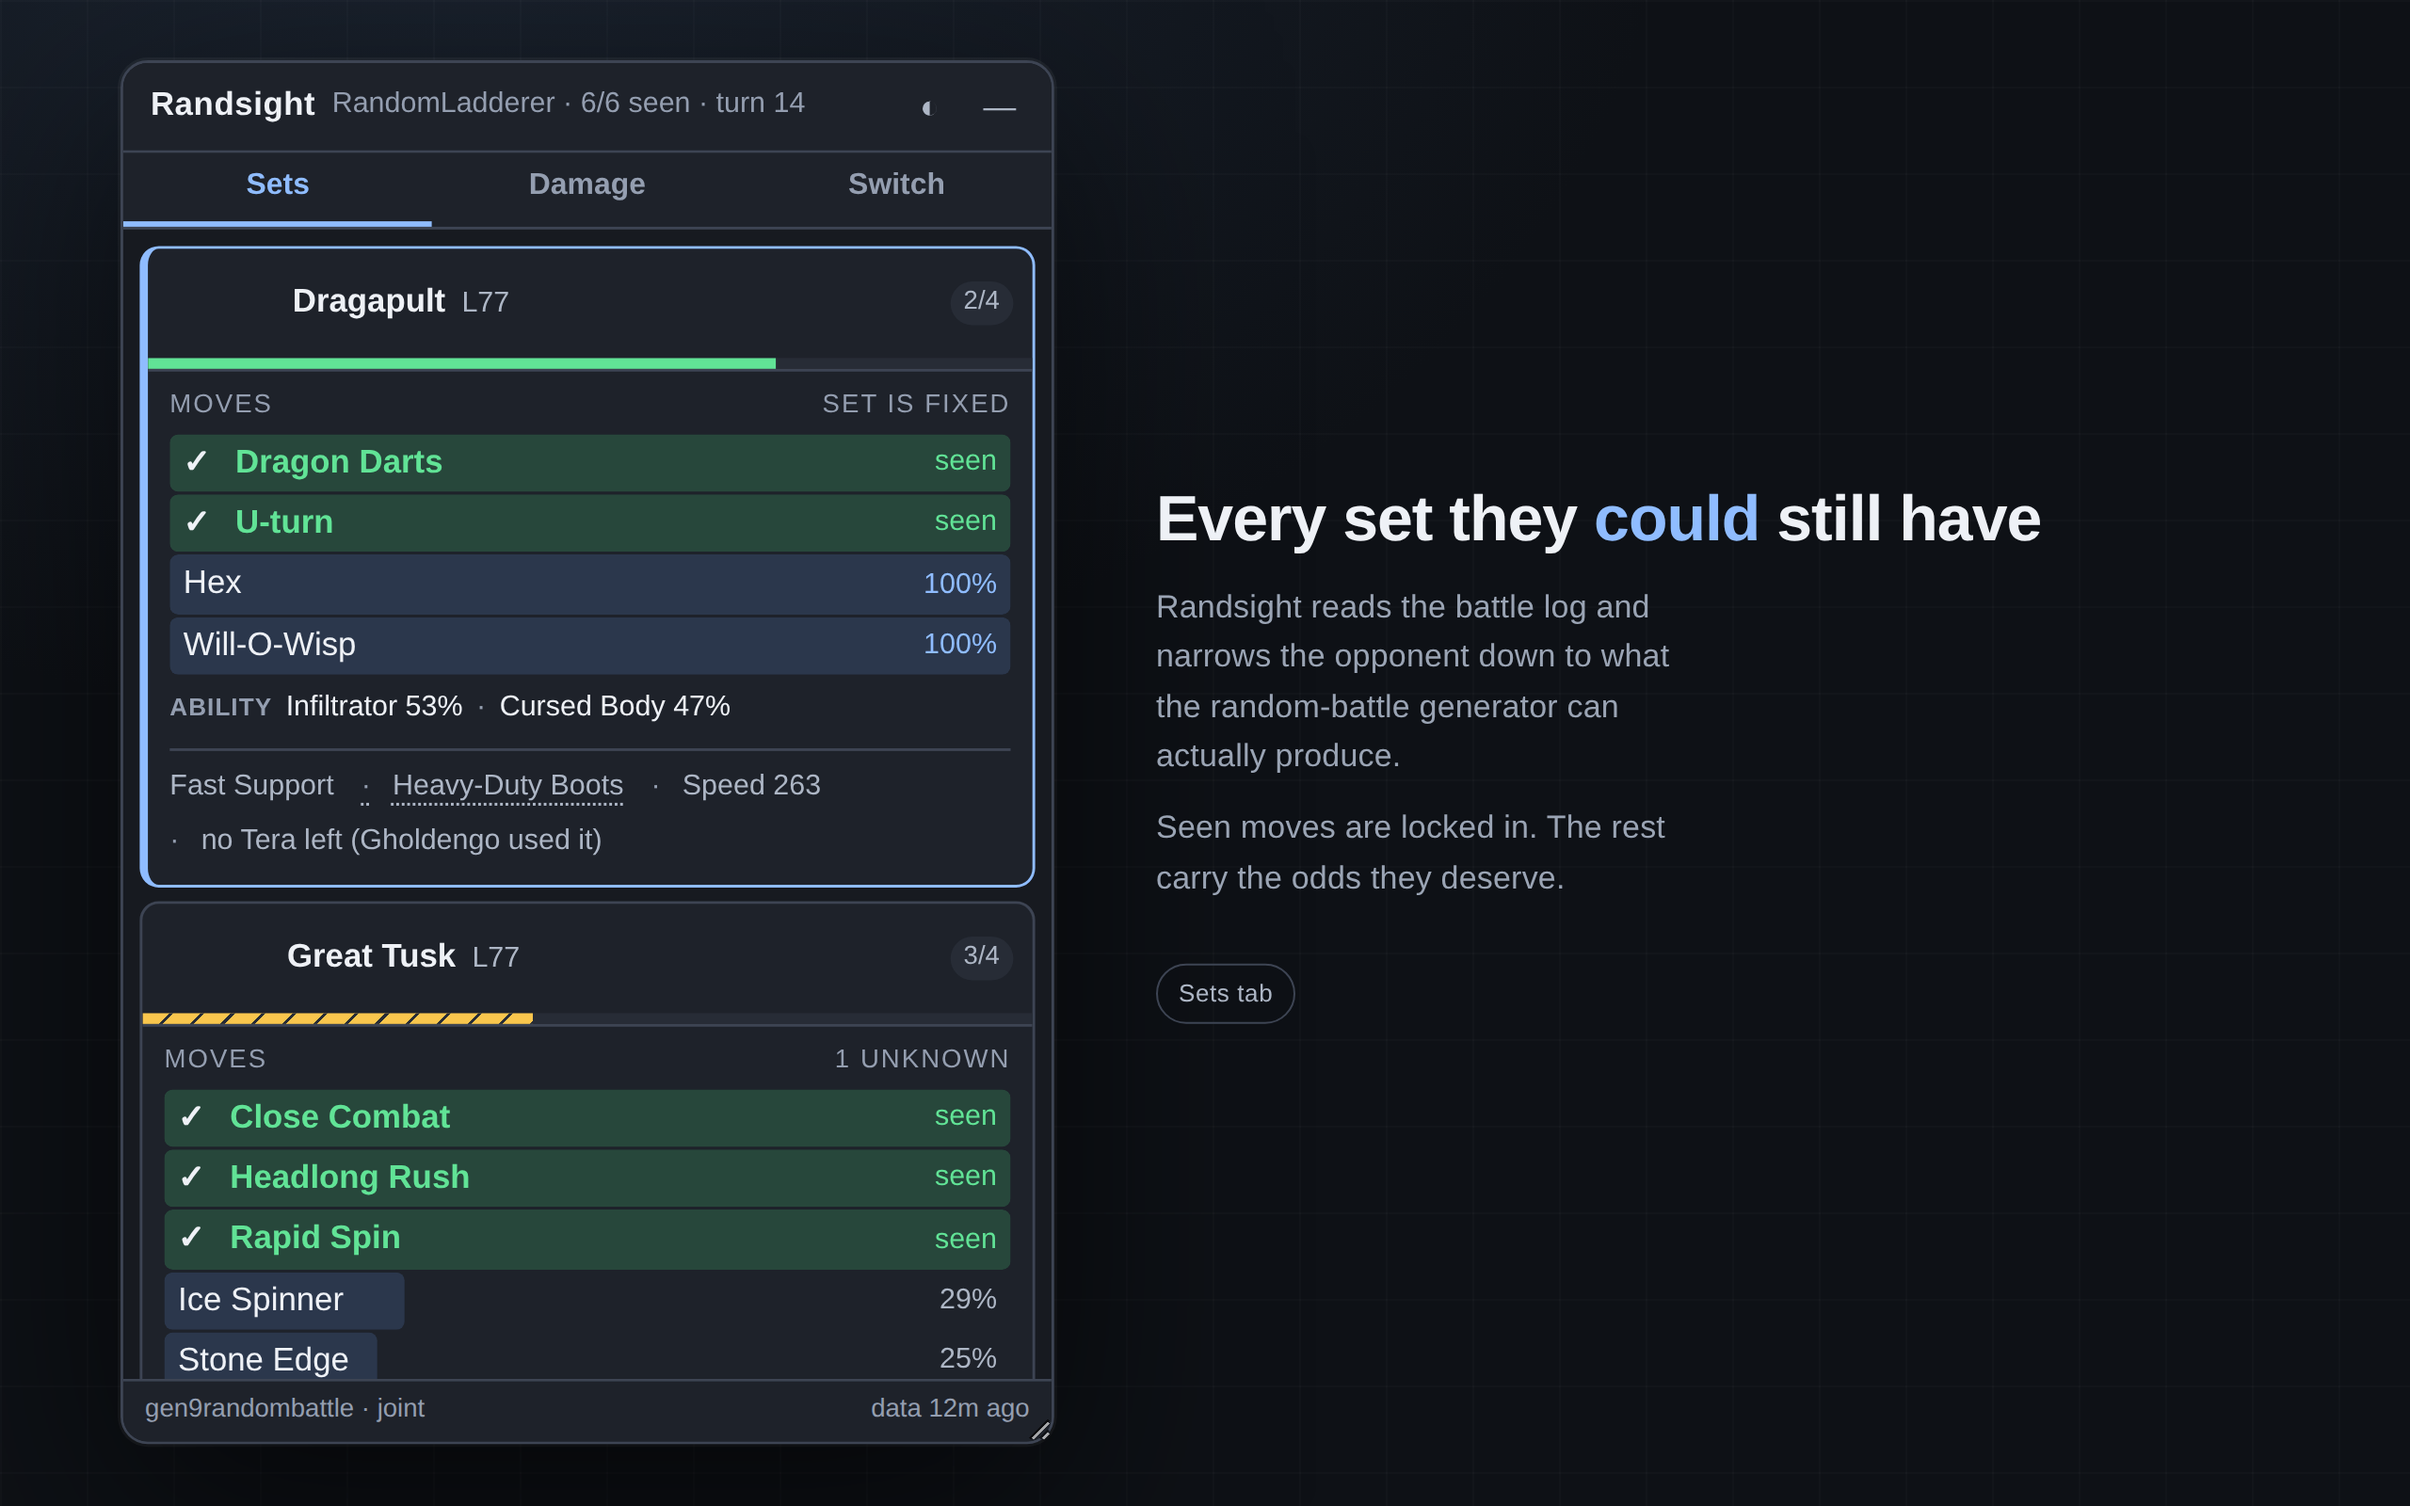
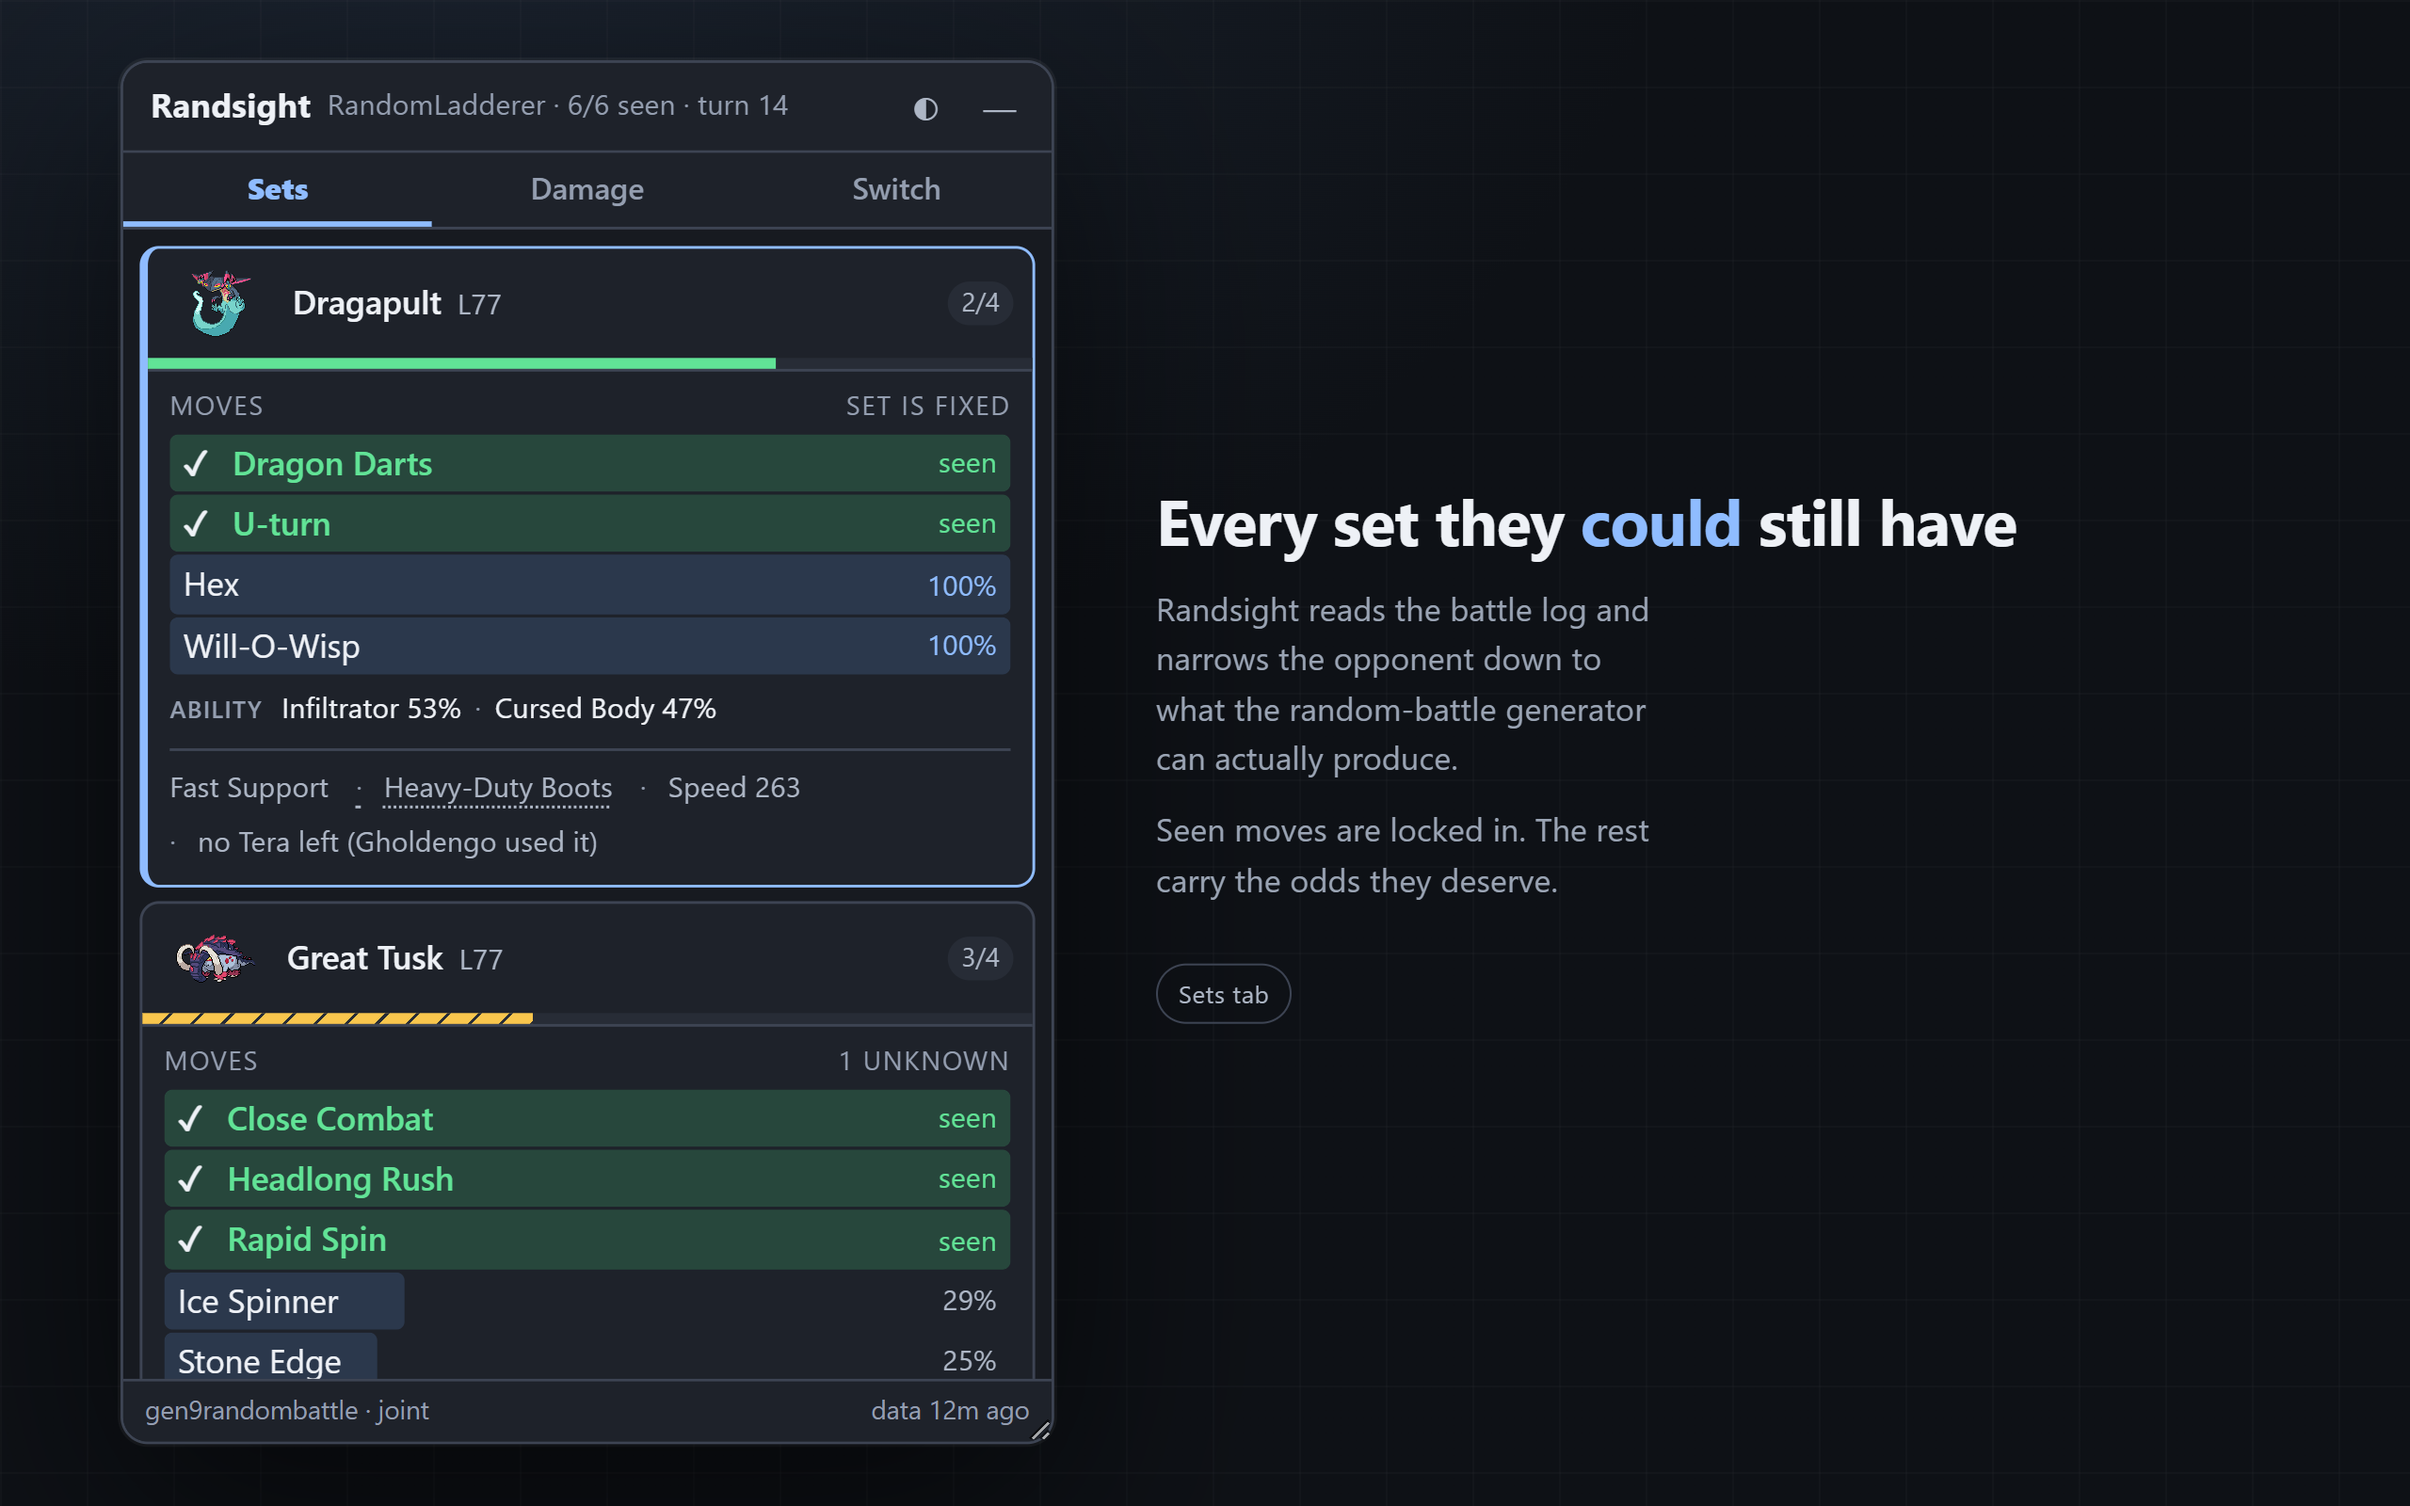
Add SECURITY.md, and regenerate the store shots with sprites

diff --git a/SECURITY.md b/SECURITY.md
@@ -1,0 +1,68 @@
+# Security
+
+## Reporting something
+
+Open an issue at https://github.com/NabilcodHu7360/randsight/issues. If it is
+something you would rather not post in public, say so in the issue without the
+details and I will find another way to hear it.
+
+Randsight has no server, no account and no data to steal — the interesting
+attack surface is the extension reading a page it should not, or a page
+reaching into the extension. Those are the reports worth writing up.
+
+## What `npm audit` reports, and why it is not what it looks like
+
+`npm audit` currently reports around a dozen advisories, one of them critical.
+Every one of them is in the dependency tree of `pokemon-showdown`, and none of
+them is in the extension.
+
+```
+$ node -e "console.log(require('./package.json').dependencies)"
+{}
+```
+
+There are no runtime dependencies. Not "few" — none. The extension is the
+JavaScript in `src/`, plus one vendored file:
+
+- **`src/vendor/calc.js`** is @smogon/calc 0.11.0, bundled ahead of time by
+  `scripts/build-vendor.sh` and committed. It is checked in unminified so it can
+  be read and diffed rather than trusted.
+
+`pokemon-showdown` is a devDependency. It exists so `test/joint.test.js` and
+`test/rivals.test.js` can call the real `Teams.generate()` to produce held-out
+teams to score the model against — which is the whole reason those numbers mean
+anything. It pulls in `sqlite3`, `nodemailer` and `node-gyp` because it is a
+whole game server; Randsight uses one function from it, on a developer's
+machine, in CI.
+
+What ships is the zip that `npm run package` builds: 46 files, from an
+allowlist, and `test/load.test.js` asserts that nothing else got in.
+
+So:
+
+- **Do not run `npm audit fix --force`.** It will move `pokemon-showdown` to a
+  version whose generator output no longer matches the published set data, and
+  the model's benchmark numbers will quietly stop meaning what they say.
+- A genuine advisory against `playwright` or against the vendored calc *is*
+  worth acting on. Those are the two that can reach something real — the first
+  because it runs in CI, the second because it ships.
+
+## What the extension can actually touch
+
+- Permissions: `storage`, and nothing else. No `tabs`, no `activeTab`, no
+  `scripting`.
+- Host permissions: `data.pkmn.cc` and `raw.githubusercontent.com/pkmn/randbats`
+  — the two places the published random-battle set data lives. That is the
+  extension's only privileged fetch.
+- Content scripts run on `play.pokemonshowdown.com` and
+  `replay.pokemonshowdown.com`, and nowhere else.
+- The panel also loads Pokemon icons from `play.pokemonshowdown.com`. Those are
+  plain `background-image` URLs from the page's own origin, not a privileged
+  fetch, and a blocked one costs you an icon and nothing else.
+- The page bridge takes exactly one string from the page and uses it as CSS
+  rather than as text — the sprite style from Showdown's own `Dex` function —
+  and it is pattern-matched before it is used (`src/ui.js`). Everything else
+  crossing that boundary is text.
+
+`PRIVACY.md` covers what is and is not read, in more detail and in plainer
+words.
